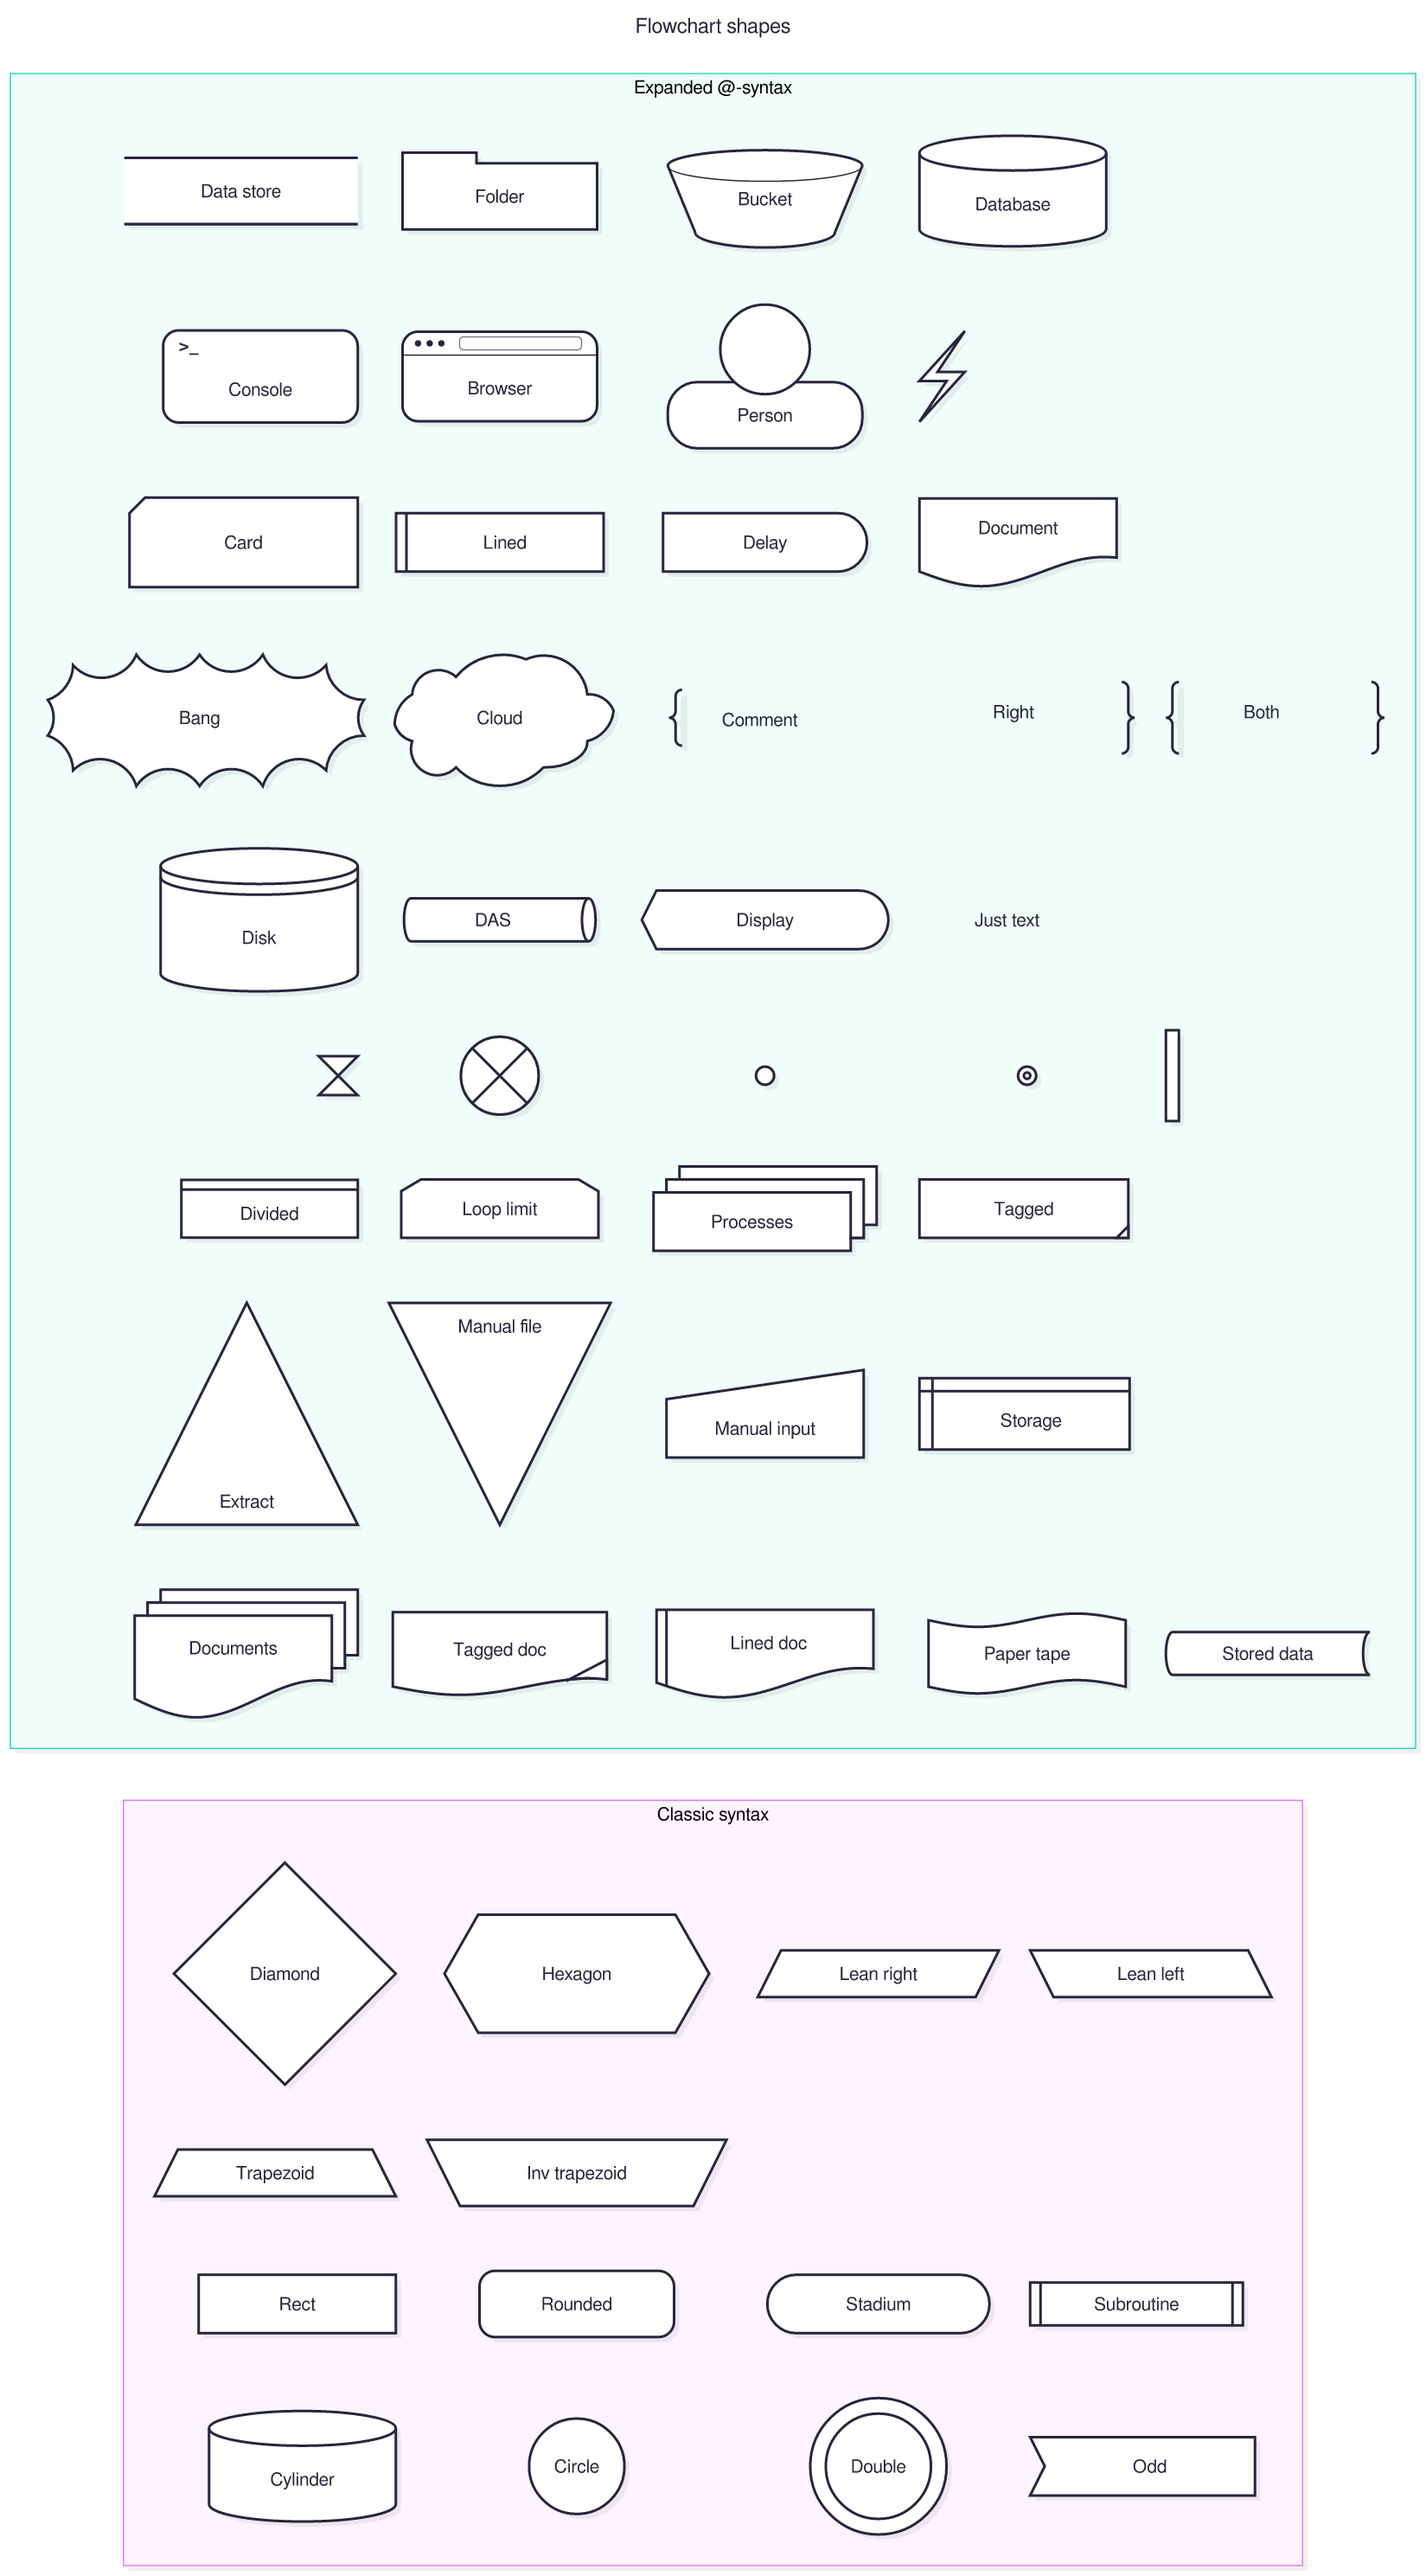
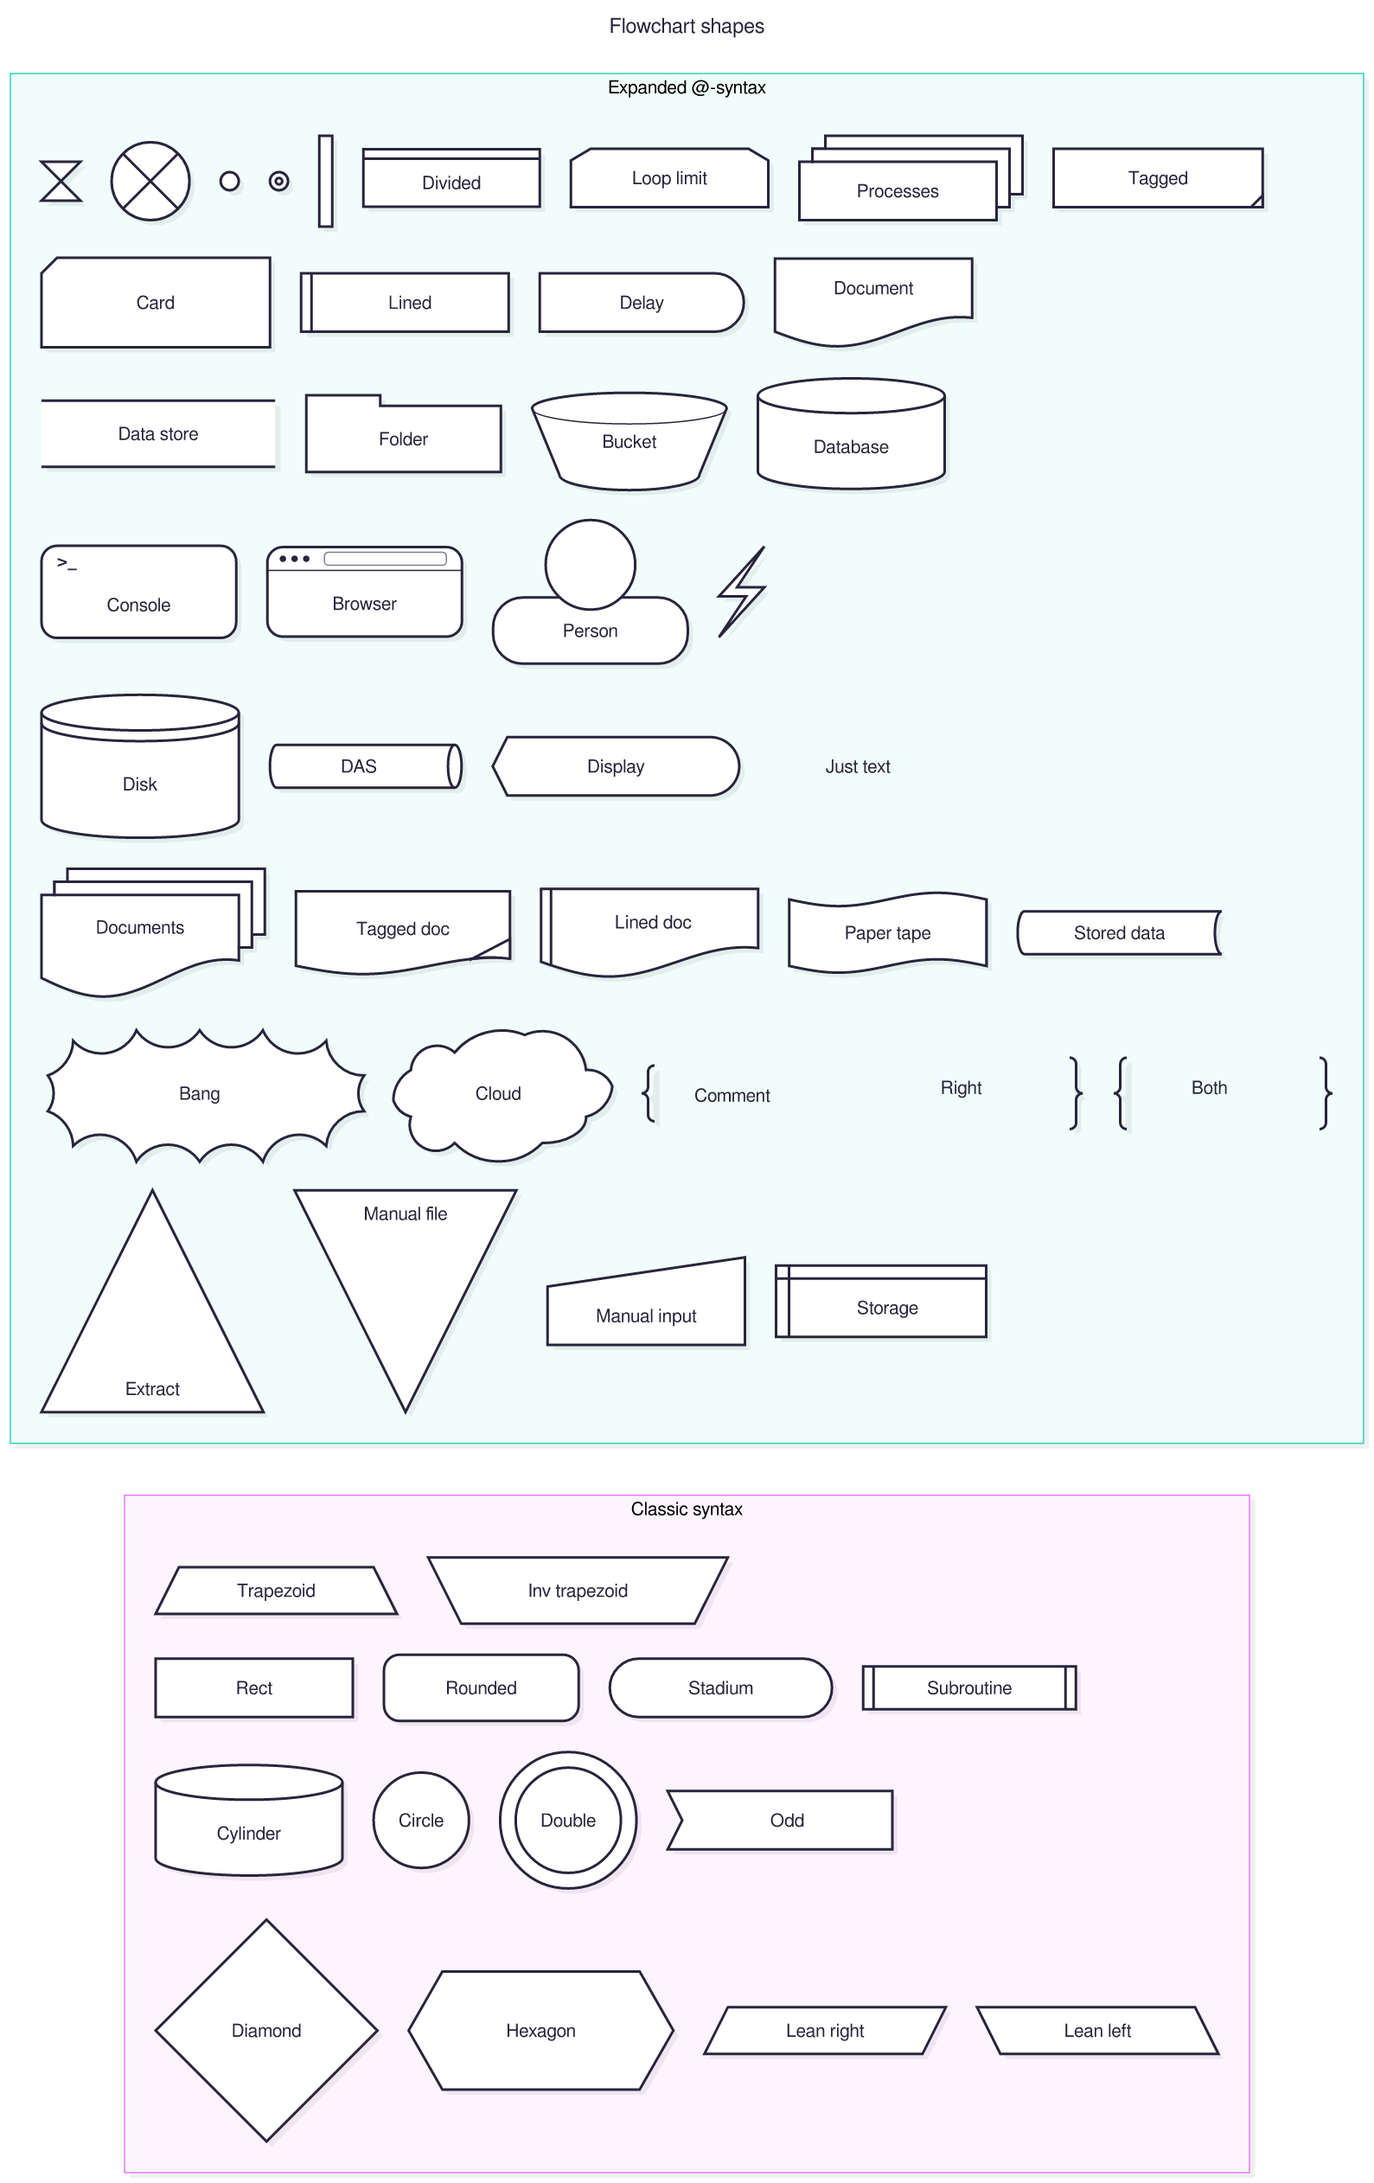
Regenerate gallery after ELK component packing
Claude-Session: https://claude.ai/code/session_01YSBvDqvT7DHspcB7hQZR6n

diff --git a/docs/GALLERY.md b/docs/GALLERY.md
@@ -5,7 +5,7 @@ Regenerate with `cargo run --release --example gallery`.
 
 ## agentflow
 
-Source: [`examples/diagrams/agentflow.mmd`](../examples/diagrams/agentflow.mmd) · rendered in 629.58µs
+Source: [`examples/diagrams/agentflow.mmd`](../examples/diagrams/agentflow.mmd) · rendered in 566.00µs
 
 <details><summary>source</summary>
 
@@ -37,7 +37,7 @@ agentflow-beta TB
 
 ## architecture
 
-Source: [`examples/diagrams/architecture.mmd`](../examples/diagrams/architecture.mmd) · rendered in 183.16µs
+Source: [`examples/diagrams/architecture.mmd`](../examples/diagrams/architecture.mmd) · rendered in 214.73µs
 
 <details><summary>source</summary>
 
@@ -74,7 +74,7 @@ architecture-beta
 
 ## block
 
-Source: [`examples/diagrams/block.mmd`](../examples/diagrams/block.mmd) · rendered in 210.18µs
+Source: [`examples/diagrams/block.mmd`](../examples/diagrams/block.mmd) · rendered in 199.58µs
 
 <details><summary>source</summary>
 
@@ -109,7 +109,7 @@ block-beta
 
 ## c4-container
 
-Source: [`examples/diagrams/c4-container.mmd`](../examples/diagrams/c4-container.mmd) · rendered in 512.90µs
+Source: [`examples/diagrams/c4-container.mmd`](../examples/diagrams/c4-container.mmd) · rendered in 506.35µs
 
 <details><summary>source</summary>
 
@@ -154,7 +154,7 @@ C4Container
 
 ## c4
 
-Source: [`examples/diagrams/c4.mmd`](../examples/diagrams/c4.mmd) · rendered in 561.77µs
+Source: [`examples/diagrams/c4.mmd`](../examples/diagrams/c4.mmd) · rendered in 524.07µs
 
 <details><summary>source</summary>
 
@@ -209,7 +209,7 @@ C4Context
 
 ## class
 
-Source: [`examples/diagrams/class.mmd`](../examples/diagrams/class.mmd) · rendered in 418.34µs
+Source: [`examples/diagrams/class.mmd`](../examples/diagrams/class.mmd) · rendered in 362.87µs
 
 <details><summary>source</summary>
 
@@ -249,7 +249,7 @@ classDiagram
 
 ## cynefin
 
-Source: [`examples/diagrams/cynefin.mmd`](../examples/diagrams/cynefin.mmd) · rendered in 854.06µs
+Source: [`examples/diagrams/cynefin.mmd`](../examples/diagrams/cynefin.mmd) · rendered in 141.10µs
 
 <details><summary>source</summary>
 
@@ -285,7 +285,7 @@ cynefin-beta
 
 ## er-subgraphs
 
-Source: [`examples/diagrams/er-subgraphs.mmd`](../examples/diagrams/er-subgraphs.mmd) · rendered in 514.60µs
+Source: [`examples/diagrams/er-subgraphs.mmd`](../examples/diagrams/er-subgraphs.mmd) · rendered in 452.84µs
 
 <details><summary>source</summary>
 
@@ -325,7 +325,7 @@ erDiagram
 
 ## er
 
-Source: [`examples/diagrams/er.mmd`](../examples/diagrams/er.mmd) · rendered in 352.48µs
+Source: [`examples/diagrams/er.mmd`](../examples/diagrams/er.mmd) · rendered in 345.46µs
 
 <details><summary>source</summary>
 
@@ -377,7 +377,7 @@ erDiagram
 
 ## eventmodeling
 
-Source: [`examples/diagrams/eventmodeling.mmd`](../examples/diagrams/eventmodeling.mmd) · rendered in 164.45µs
+Source: [`examples/diagrams/eventmodeling.mmd`](../examples/diagrams/eventmodeling.mmd) · rendered in 208.79µs
 
 <details><summary>source</summary>
 
@@ -401,7 +401,7 @@ tf 08 rmo CartItems ->> 03 ->> 07
 
 ## flowchart
 
-Source: [`examples/diagrams/flowchart.mmd`](../examples/diagrams/flowchart.mmd) · rendered in 349.82µs
+Source: [`examples/diagrams/flowchart.mmd`](../examples/diagrams/flowchart.mmd) · rendered in 367.33µs
 
 <details><summary>source</summary>
 
@@ -429,7 +429,7 @@ flowchart TD
 
 ## gantt
 
-Source: [`examples/diagrams/gantt.mmd`](../examples/diagrams/gantt.mmd) · rendered in 568.81µs
+Source: [`examples/diagrams/gantt.mmd`](../examples/diagrams/gantt.mmd) · rendered in 606.31µs
 
 <details><summary>source</summary>
 
@@ -469,7 +469,7 @@ gantt
 
 ## gitgraph
 
-Source: [`examples/diagrams/gitgraph.mmd`](../examples/diagrams/gitgraph.mmd) · rendered in 171.31µs
+Source: [`examples/diagrams/gitgraph.mmd`](../examples/diagrams/gitgraph.mmd) · rendered in 157.46µs
 
 <details><summary>source</summary>
 
@@ -507,7 +507,7 @@ gitGraph
 
 ## info
 
-Source: [`examples/diagrams/info.mmd`](../examples/diagrams/info.mmd) · rendered in 85.23µs
+Source: [`examples/diagrams/info.mmd`](../examples/diagrams/info.mmd) · rendered in 99.22µs
 
 <details><summary>source</summary>
 
@@ -521,7 +521,7 @@ info showInfo
 
 ## ishikawa
 
-Source: [`examples/diagrams/ishikawa.mmd`](../examples/diagrams/ishikawa.mmd) · rendered in 158.58µs
+Source: [`examples/diagrams/ishikawa.mmd`](../examples/diagrams/ishikawa.mmd) · rendered in 167.34µs
 
 <details><summary>source</summary>
 
@@ -554,7 +554,7 @@ ishikawa-beta
 
 ## journey
 
-Source: [`examples/diagrams/journey.mmd`](../examples/diagrams/journey.mmd) · rendered in 225.92µs
+Source: [`examples/diagrams/journey.mmd`](../examples/diagrams/journey.mmd) · rendered in 240.58µs
 
 <details><summary>source</summary>
 
@@ -579,7 +579,7 @@ journey
 
 ## kanban
 
-Source: [`examples/diagrams/kanban.mmd`](../examples/diagrams/kanban.mmd) · rendered in 273.04µs
+Source: [`examples/diagrams/kanban.mmd`](../examples/diagrams/kanban.mmd) · rendered in 273.41µs
 
 <details><summary>source</summary>
 
@@ -614,7 +614,7 @@ kanban
 
 ## mindmap
 
-Source: [`examples/diagrams/mindmap.mmd`](../examples/diagrams/mindmap.mmd) · rendered in 224.49µs
+Source: [`examples/diagrams/mindmap.mmd`](../examples/diagrams/mindmap.mmd) · rendered in 251.36µs
 
 <details><summary>source</summary>
 
@@ -652,7 +652,7 @@ mindmap
 
 ## packet
 
-Source: [`examples/diagrams/packet.mmd`](../examples/diagrams/packet.mmd) · rendered in 391.58µs
+Source: [`examples/diagrams/packet.mmd`](../examples/diagrams/packet.mmd) · rendered in 296.14µs
 
 <details><summary>source</summary>
 
@@ -686,7 +686,7 @@ packet-beta
 
 ## pie
 
-Source: [`examples/diagrams/pie.mmd`](../examples/diagrams/pie.mmd) · rendered in 108.56µs
+Source: [`examples/diagrams/pie.mmd`](../examples/diagrams/pie.mmd) · rendered in 126.33µs
 
 <details><summary>source</summary>
 
@@ -705,7 +705,7 @@ pie showData
 
 ## quadrant
 
-Source: [`examples/diagrams/quadrant.mmd`](../examples/diagrams/quadrant.mmd) · rendered in 157.83µs
+Source: [`examples/diagrams/quadrant.mmd`](../examples/diagrams/quadrant.mmd) · rendered in 139.37µs
 
 <details><summary>source</summary>
 
@@ -734,7 +734,7 @@ quadrantChart
 
 ## radar
 
-Source: [`examples/diagrams/radar.mmd`](../examples/diagrams/radar.mmd) · rendered in 181.60µs
+Source: [`examples/diagrams/radar.mmd`](../examples/diagrams/radar.mmd) · rendered in 154.62µs
 
 <details><summary>source</summary>
 
@@ -762,7 +762,7 @@ radar-beta
 
 ## railroad-abnf
 
-Source: [`examples/diagrams/railroad-abnf.mmd`](../examples/diagrams/railroad-abnf.mmd) · rendered in 186.20µs
+Source: [`examples/diagrams/railroad-abnf.mmd`](../examples/diagrams/railroad-abnf.mmd) · rendered in 177.26µs
 
 <details><summary>source</summary>
 
@@ -783,7 +783,7 @@ port = [ ":" ] 1*5DIGIT %x30-39 ;
 
 ## railroad-ir
 
-Source: [`examples/diagrams/railroad-ir.mmd`](../examples/diagrams/railroad-ir.mmd) · rendered in 187.30µs
+Source: [`examples/diagrams/railroad-ir.mmd`](../examples/diagrams/railroad-ir.mmd) · rendered in 160.50µs
 
 <details><summary>source</summary>
 
@@ -811,7 +811,7 @@ number = sequence(optional(terminal("-")), oneOrMore(nonterminal("digit")), spec
 
 ## railroad-peg
 
-Source: [`examples/diagrams/railroad-peg.mmd`](../examples/diagrams/railroad-peg.mmd) · rendered in 158.93µs
+Source: [`examples/diagrams/railroad-peg.mmd`](../examples/diagrams/railroad-peg.mmd) · rendered in 146.37µs
 
 <details><summary>source</summary>
 
@@ -832,7 +832,7 @@ Identifier <- !Keyword Letter Letter* . ;
 
 ## railroad
 
-Source: [`examples/diagrams/railroad.mmd`](../examples/diagrams/railroad.mmd) · rendered in 169.05µs
+Source: [`examples/diagrams/railroad.mmd`](../examples/diagrams/railroad.mmd) · rendered in 182.00µs
 
 <details><summary>source</summary>
 
@@ -854,7 +854,7 @@ string = '"' { ? any character except quote ? } '"' ;
 
 ## requirement
 
-Source: [`examples/diagrams/requirement.mmd`](../examples/diagrams/requirement.mmd) · rendered in 659.26µs
+Source: [`examples/diagrams/requirement.mmd`](../examples/diagrams/requirement.mmd) · rendered in 441.76µs
 
 <details><summary>source</summary>
 
@@ -936,7 +936,7 @@ requirementDiagram
 
 ## sankey
 
-Source: [`examples/diagrams/sankey.mmd`](../examples/diagrams/sankey.mmd) · rendered in 418.58µs
+Source: [`examples/diagrams/sankey.mmd`](../examples/diagrams/sankey.mmd) · rendered in 450.90µs
 
 <details><summary>source</summary>
 
@@ -981,7 +981,7 @@ Electricity grid,"Heating and cooling, homes",42.0
 
 ## sequence
 
-Source: [`examples/diagrams/sequence.mmd`](../examples/diagrams/sequence.mmd) · rendered in 172.44µs
+Source: [`examples/diagrams/sequence.mmd`](../examples/diagrams/sequence.mmd) · rendered in 184.64µs
 
 <details><summary>source</summary>
 
@@ -1016,7 +1016,7 @@ sequenceDiagram
 
 ## shapes
 
-Source: [`examples/diagrams/shapes.mmd`](../examples/diagrams/shapes.mmd) · rendered in 956.02µs
+Source: [`examples/diagrams/shapes.mmd`](../examples/diagrams/shapes.mmd) · rendered in 1.06ms
 
 <details><summary>source</summary>
 
@@ -1052,7 +1052,7 @@ flowchart LR
 
 ## state
 
-Source: [`examples/diagrams/state.mmd`](../examples/diagrams/state.mmd) · rendered in 451.31µs
+Source: [`examples/diagrams/state.mmd`](../examples/diagrams/state.mmd) · rendered in 447.55µs
 
 <details><summary>source</summary>
 
@@ -1080,7 +1080,7 @@ stateDiagram-v2
 
 ## subgraph-collapse
 
-Source: [`examples/diagrams/subgraph-collapse.mmd`](../examples/diagrams/subgraph-collapse.mmd) · rendered in 365.03µs
+Source: [`examples/diagrams/subgraph-collapse.mmd`](../examples/diagrams/subgraph-collapse.mmd) · rendered in 418.64µs
 
 <details><summary>source</summary>
 
@@ -1110,7 +1110,7 @@ flowchart LR
 
 ## subgraphs
 
-Source: [`examples/diagrams/subgraphs.mmd`](../examples/diagrams/subgraphs.mmd) · rendered in 447.34µs
+Source: [`examples/diagrams/subgraphs.mmd`](../examples/diagrams/subgraphs.mmd) · rendered in 906.08µs
 
 <details><summary>source</summary>
 
@@ -1141,7 +1141,7 @@ flowchart LR
 
 ## swimlane
 
-Source: [`examples/diagrams/swimlane.mmd`](../examples/diagrams/swimlane.mmd) · rendered in 266.91µs
+Source: [`examples/diagrams/swimlane.mmd`](../examples/diagrams/swimlane.mmd) · rendered in 260.37µs
 
 <details><summary>source</summary>
 
@@ -1171,7 +1171,7 @@ swimlane-beta LR
 
 ## timeline
 
-Source: [`examples/diagrams/timeline.mmd`](../examples/diagrams/timeline.mmd) · rendered in 281.21µs
+Source: [`examples/diagrams/timeline.mmd`](../examples/diagrams/timeline.mmd) · rendered in 330.85µs
 
 <details><summary>source</summary>
 
@@ -1196,7 +1196,7 @@ timeline
 
 ## treemap
 
-Source: [`examples/diagrams/treemap.mmd`](../examples/diagrams/treemap.mmd) · rendered in 172.32µs
+Source: [`examples/diagrams/treemap.mmd`](../examples/diagrams/treemap.mmd) · rendered in 190.93µs
 
 <details><summary>source</summary>
 
@@ -1233,7 +1233,7 @@ classDef highlight fill:#ffd166,stroke:#c77d00,color:#000
 
 ## treeview
 
-Source: [`examples/diagrams/treeview.mmd`](../examples/diagrams/treeview.mmd) · rendered in 128.85µs
+Source: [`examples/diagrams/treeview.mmd`](../examples/diagrams/treeview.mmd) · rendered in 141.04µs
 
 <details><summary>source</summary>
 
@@ -1259,7 +1259,7 @@ treeView-beta
 
 ## usecase
 
-Source: [`examples/diagrams/usecase.mmd`](../examples/diagrams/usecase.mmd) · rendered in 472.22µs
+Source: [`examples/diagrams/usecase.mmd`](../examples/diagrams/usecase.mmd) · rendered in 541.63µs
 
 <details><summary>source</summary>
 
@@ -1303,7 +1303,7 @@ style pays stroke:#6b46c1,stroke-width:2px
 
 ## venn
 
-Source: [`examples/diagrams/venn.mmd`](../examples/diagrams/venn.mmd) · rendered in 344.19µs
+Source: [`examples/diagrams/venn.mmd`](../examples/diagrams/venn.mmd) · rendered in 329.71µs
 
 <details><summary>source</summary>
 
@@ -1327,7 +1327,7 @@ venn-beta
 
 ## wardley
 
-Source: [`examples/diagrams/wardley.mmd`](../examples/diagrams/wardley.mmd) · rendered in 167.34µs
+Source: [`examples/diagrams/wardley.mmd`](../examples/diagrams/wardley.mmd) · rendered in 188.63µs
 
 <details><summary>source</summary>
 
@@ -1376,7 +1376,7 @@ note "Migrate to cloud-native database" [0.60, 0.50]
 
 ## xychart
 
-Source: [`examples/diagrams/xychart.mmd`](../examples/diagrams/xychart.mmd) · rendered in 198.06µs
+Source: [`examples/diagrams/xychart.mmd`](../examples/diagrams/xychart.mmd) · rendered in 171.45µs
 
 <details><summary>source</summary>
 
@@ -1396,7 +1396,7 @@ xychart-beta
 
 ## zenuml
 
-Source: [`examples/diagrams/zenuml.mmd`](../examples/diagrams/zenuml.mmd) · rendered in 329.84µs
+Source: [`examples/diagrams/zenuml.mmd`](../examples/diagrams/zenuml.mmd) · rendered in 254.93µs
 
 <details><summary>source</summary>
 
